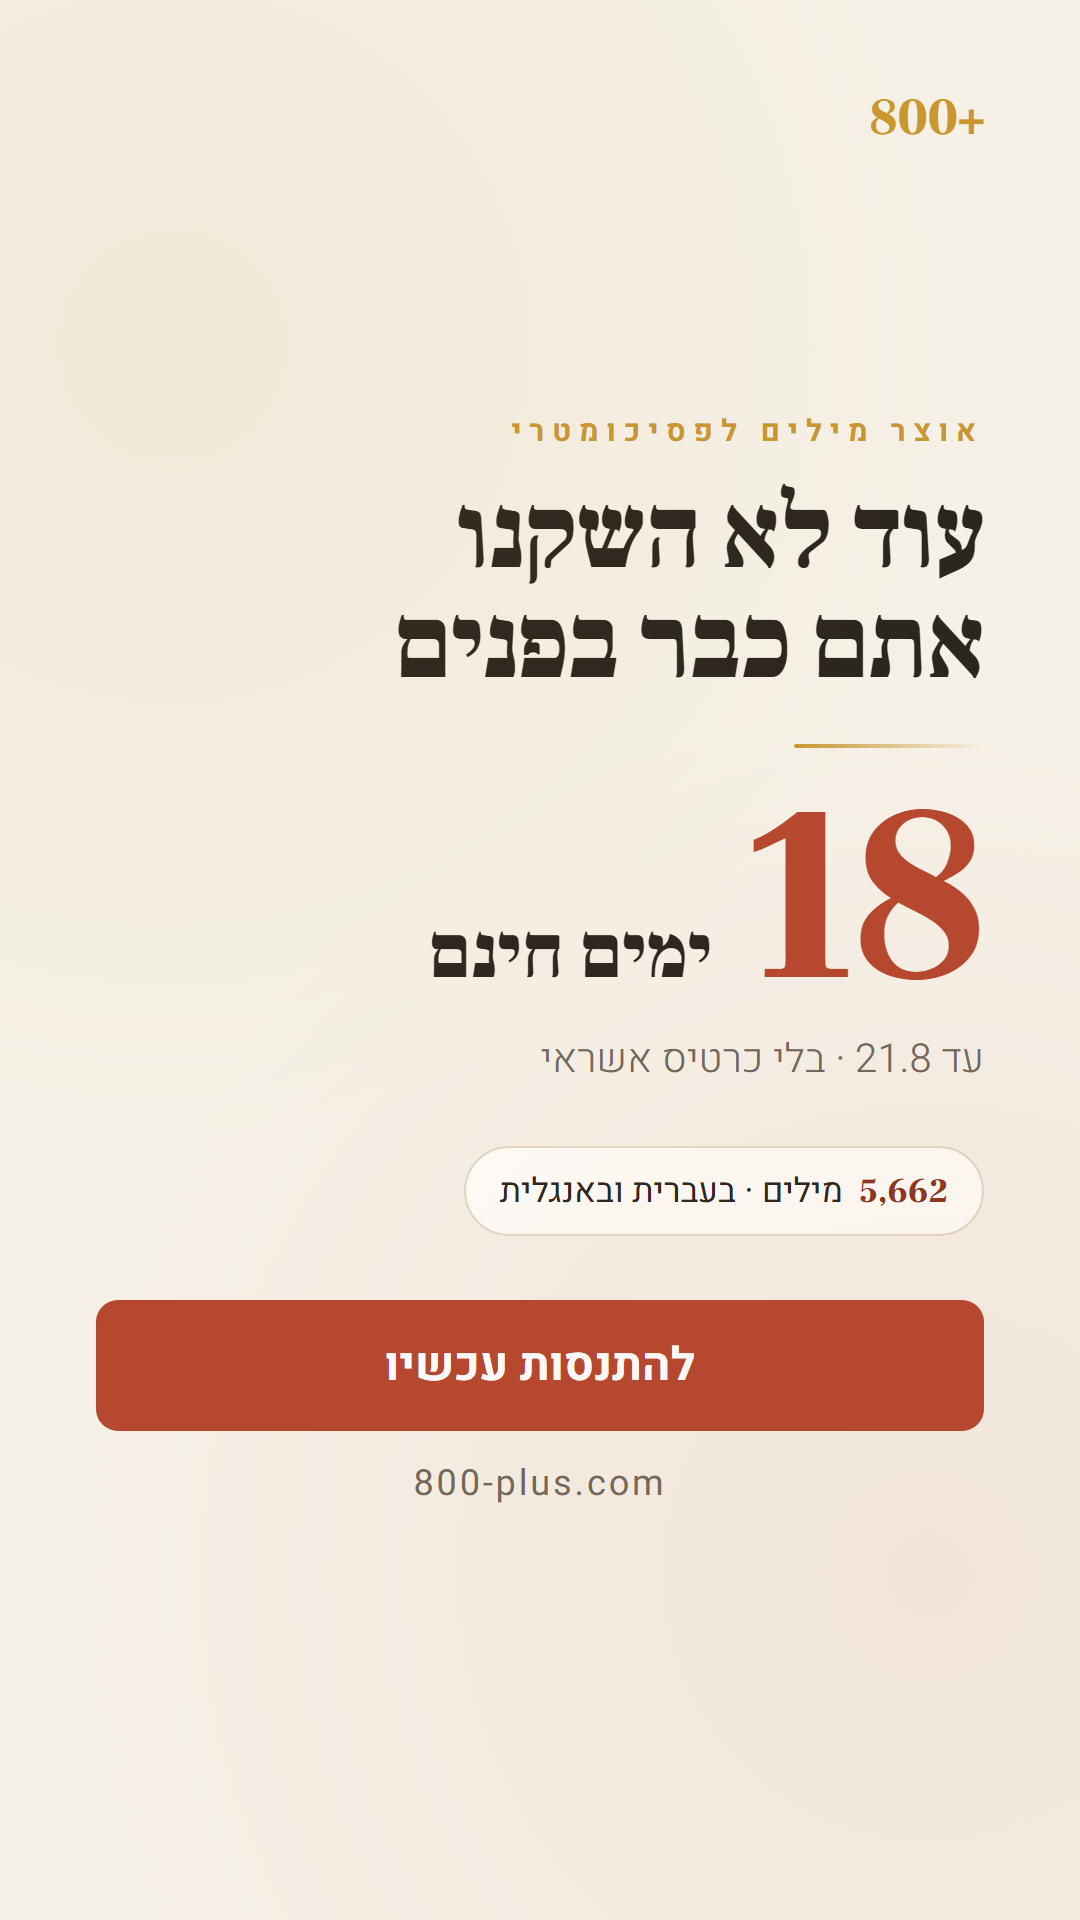
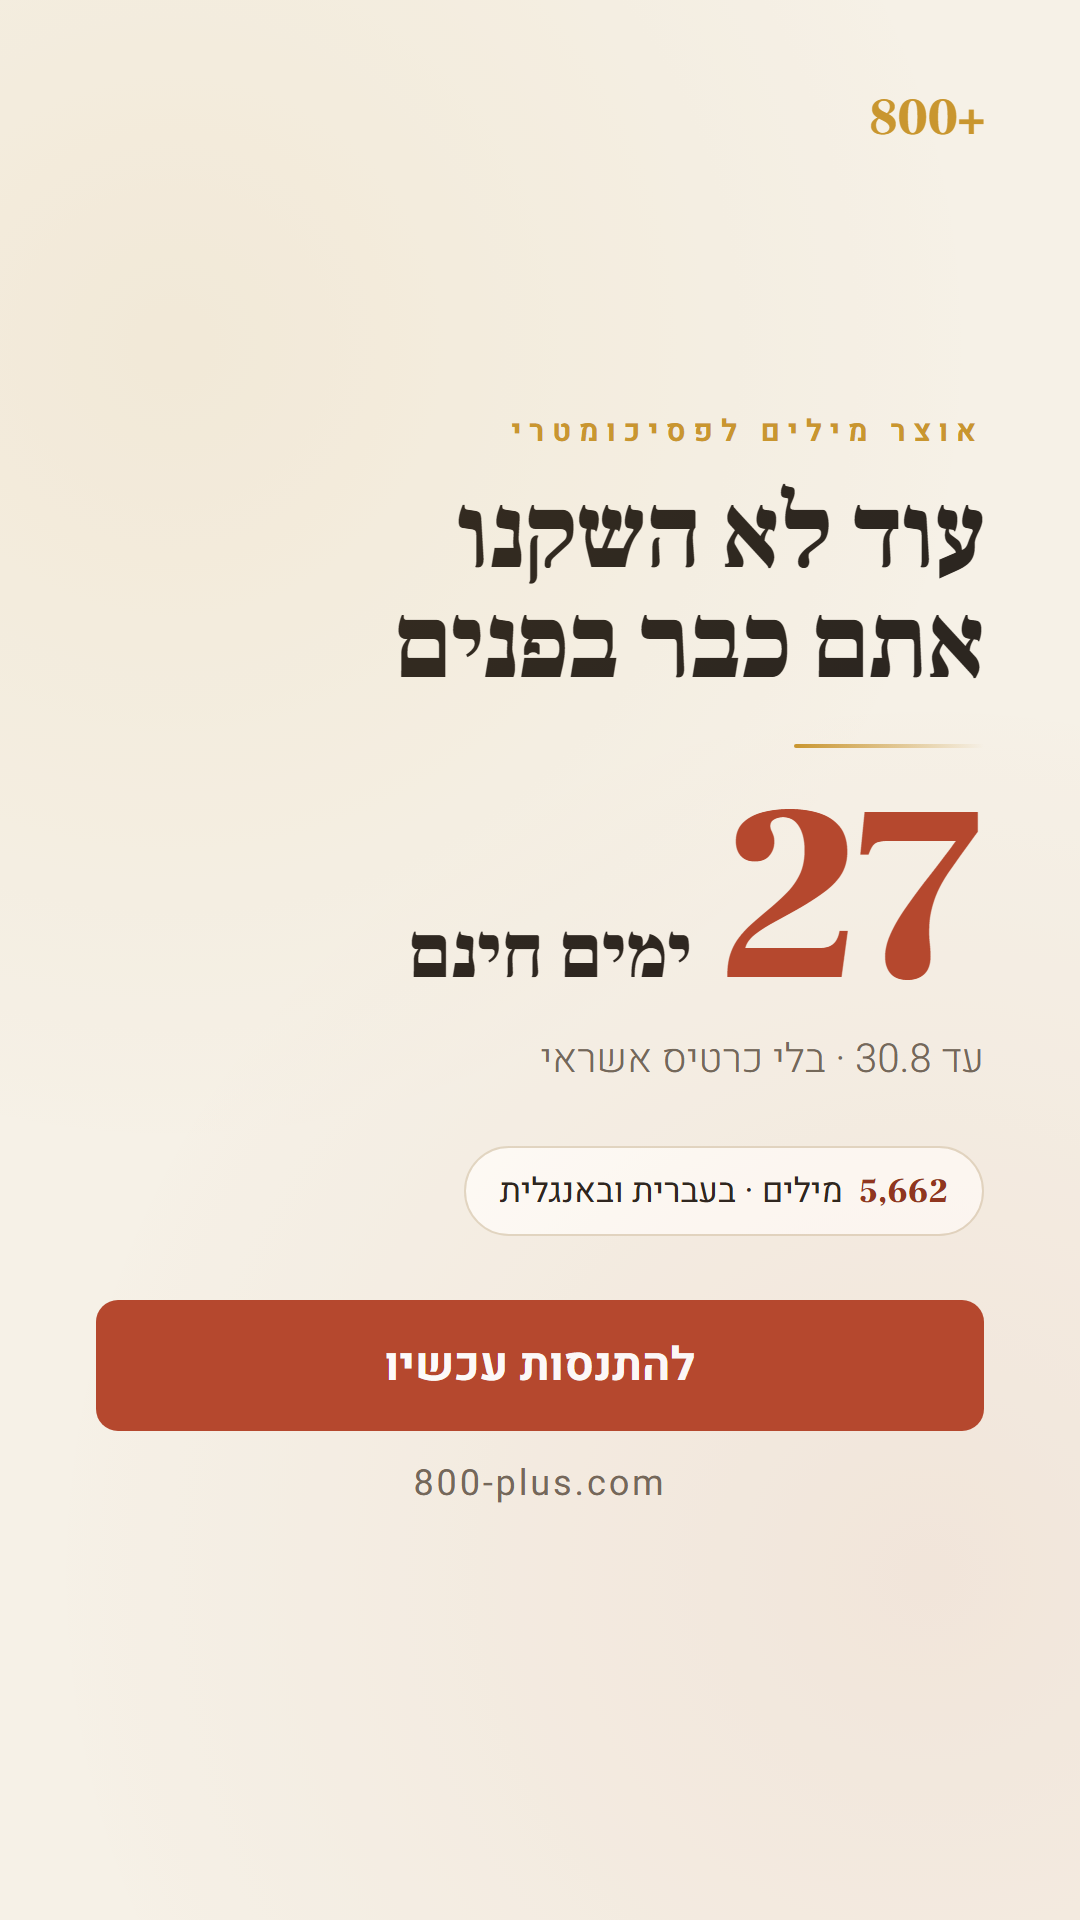
סטורי: התקופה החינמית עד 30.8
חגי הרחיב את ההתנסות לשלושה שבועות וחצי — עד יום לפני סוף אוגוסט.
FREE_UNTIL הוא הערך היחיד שהשתנה; המספר בסטורי מחושב ממנו ולא מוקלד,
ולכן רינדור מחדש מציג 27 מעצמו.

Changed region(s): [[0.3667, 0.4062, 0.9167, 0.5625]]

diff --git a/שיווק/תמונות/סטורי-השקה.html b/שיווק/תמונות/סטורי-השקה.html
@@ -84,7 +84,7 @@ body{background:#1a1712;font-family:"Heebo",sans-serif;color:#f6f1e7;
 
 <script>
 /* התאריך שבו נגמרת התקופה החינמית. זה הערך היחיד לעדכן. */
-const FREE_UNTIL = '2026-08-21';
+const FREE_UNTIL = '2026-08-30';
 
 (function(){
   const end = new Date(FREE_UNTIL + 'T23:59:59');
